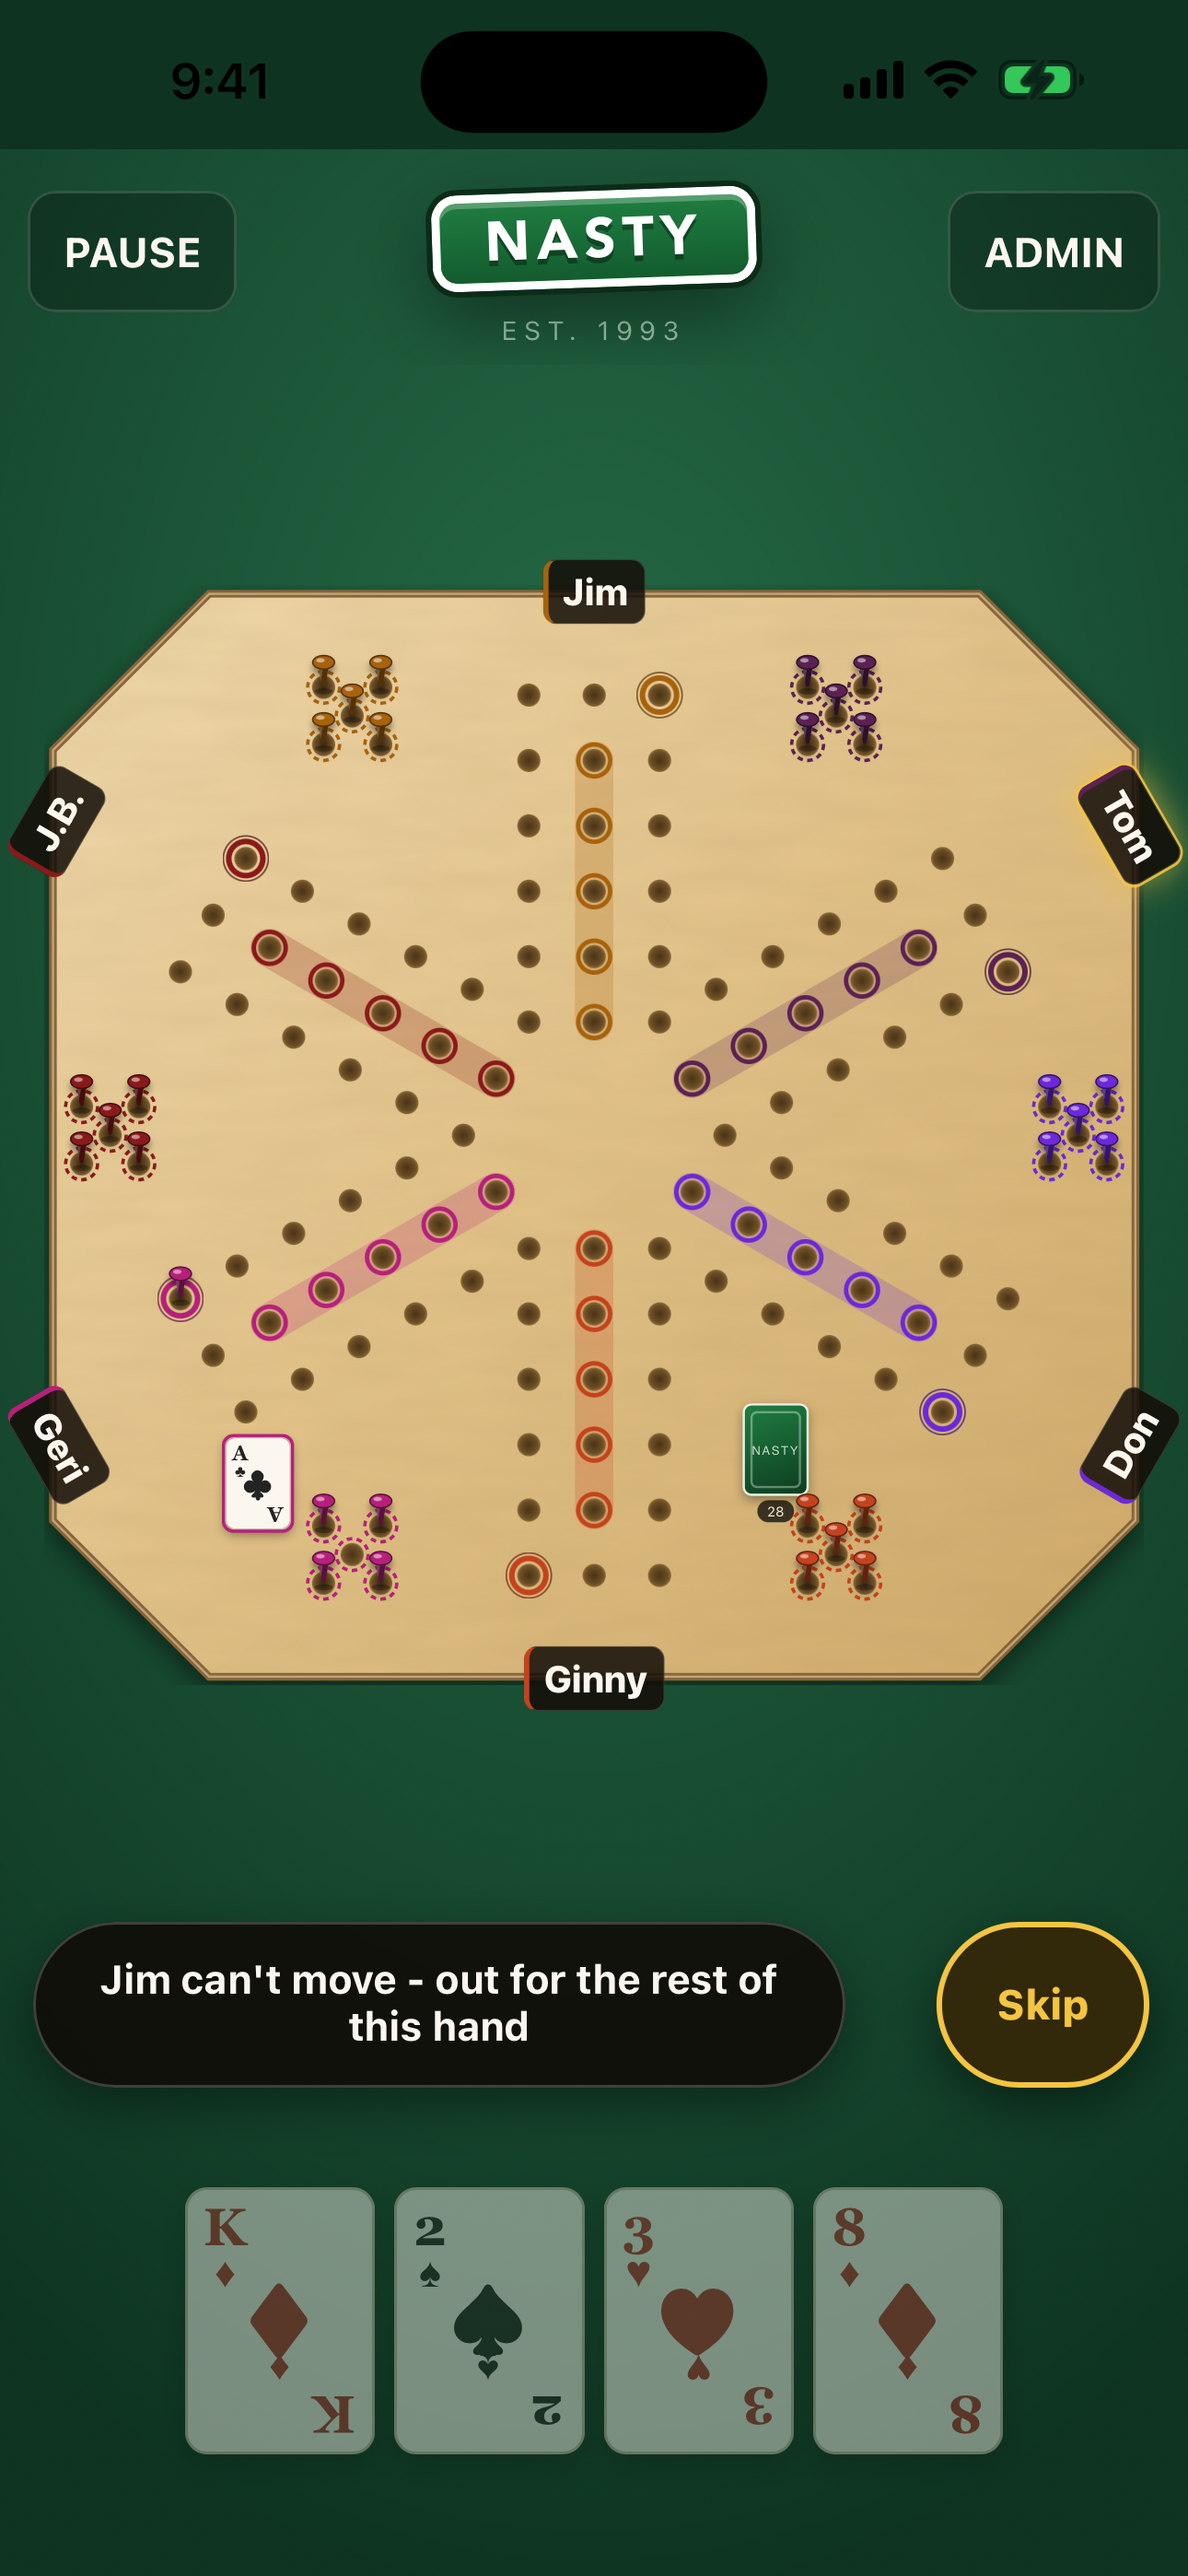
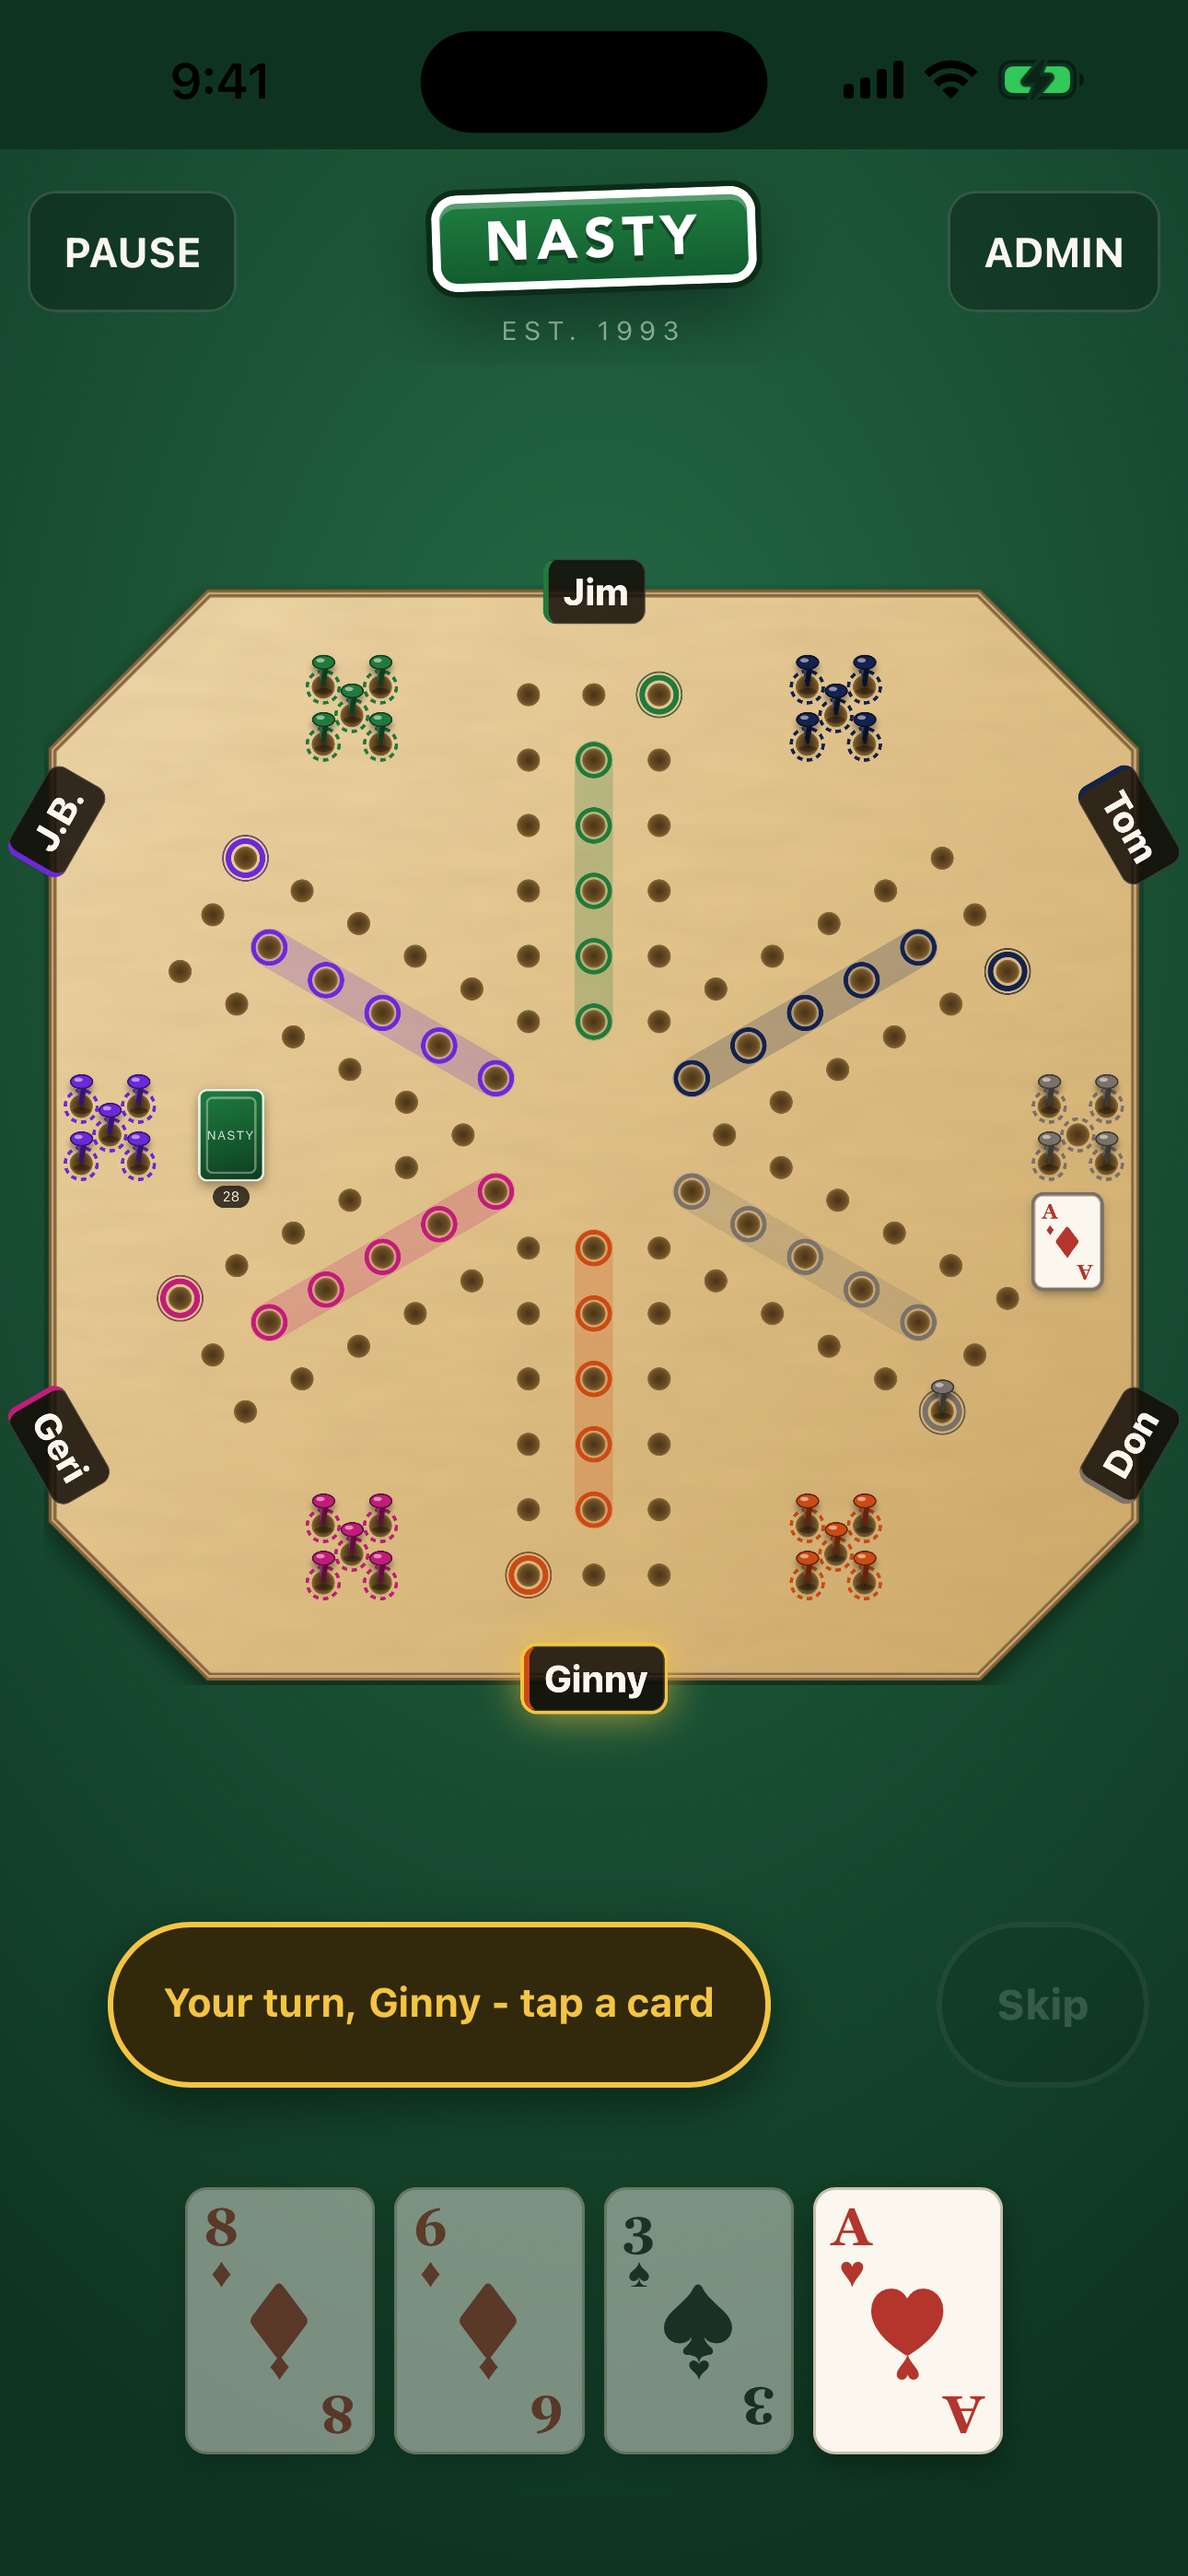
appstore: refresh 3 stale App Store Connect screenshots to real v0.67/build 82
board6.png still showed the OLD pre-v0.66 Sunset colors under the new Marbles
caption - a real simulator capture of the current 6-player Teams board with
equipToggle() driven by the real production Marbles palette data (curled from
GET /shop, cross-checked byte-identical against SHOP_CATALOG) replaces it.
menu.png and leaderboard.png both still showed "V0.65" in their version-tag
footer (confirmed by zooming the actual pixels, not assumed) - both recaptured
fresh at v0.67/build 82, leaderboard against real production data. board4.png
and shop.png reviewed and confirmed not stale, left untouched. All six new
files (both APP_IPHONE_67/65 sizes) uploaded to App Store Connect via the real
3-step asset API, all confirmed COMPLETE; the six stale ones deleted first,
positions restored. Not submitted for review - screenshots only.

Claude-Session: https://claude.ai/code/session_013GsvWcnmfXeBSK48Fuukum

diff --git a/appstore/index.html b/appstore/index.html
@@ -100,7 +100,7 @@
 <body>
   <header>
     <div class="sign"><b>NASTY</b></div>
-    <p>App Store shots - v0.65, real public launch set.<br>
+    <p>App Store shots - v0.67, real public launch set.<br>
       Golf tees, a real board, thirty years of house rules - now free to play, with optional cosmetics in the Shop.</p>
   </header>
 
